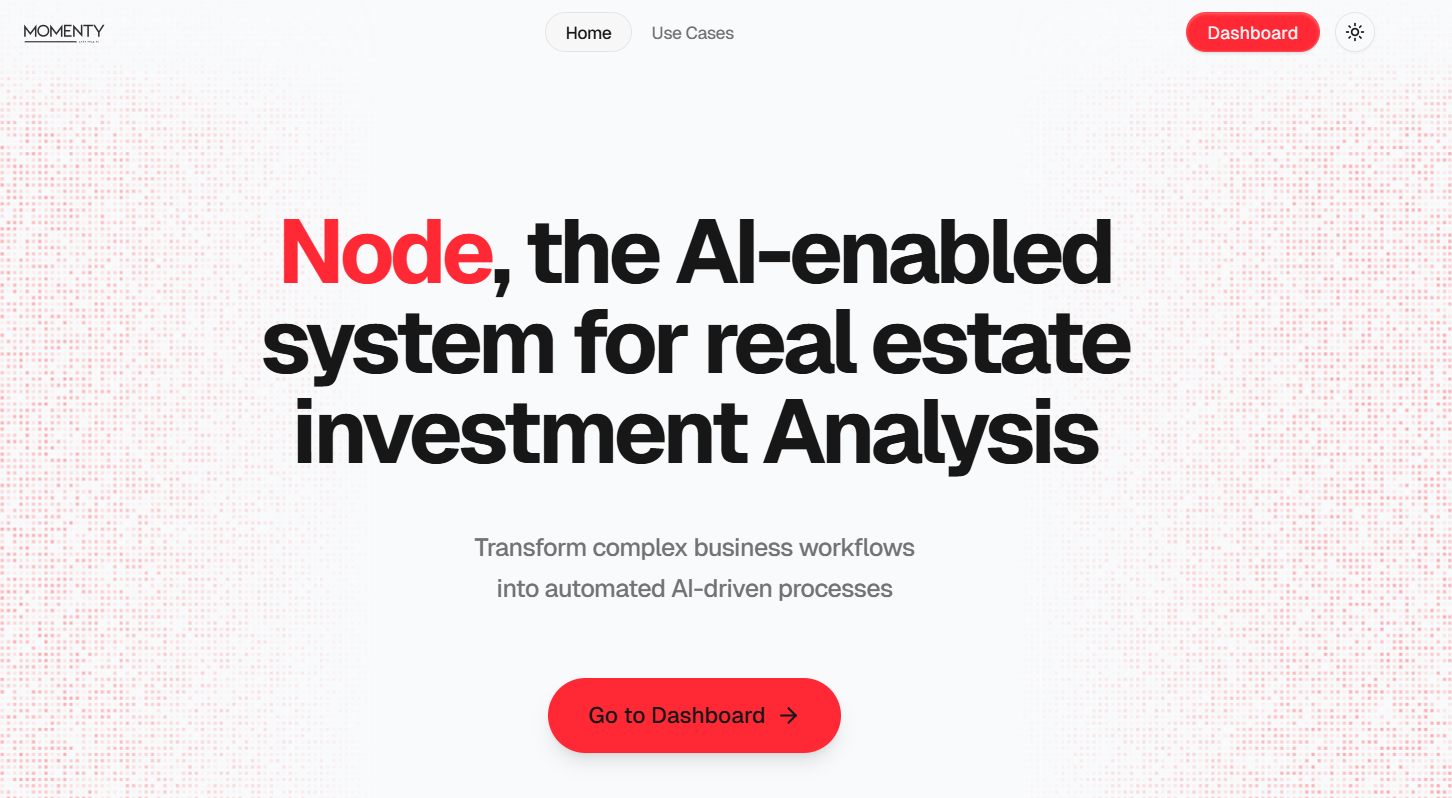
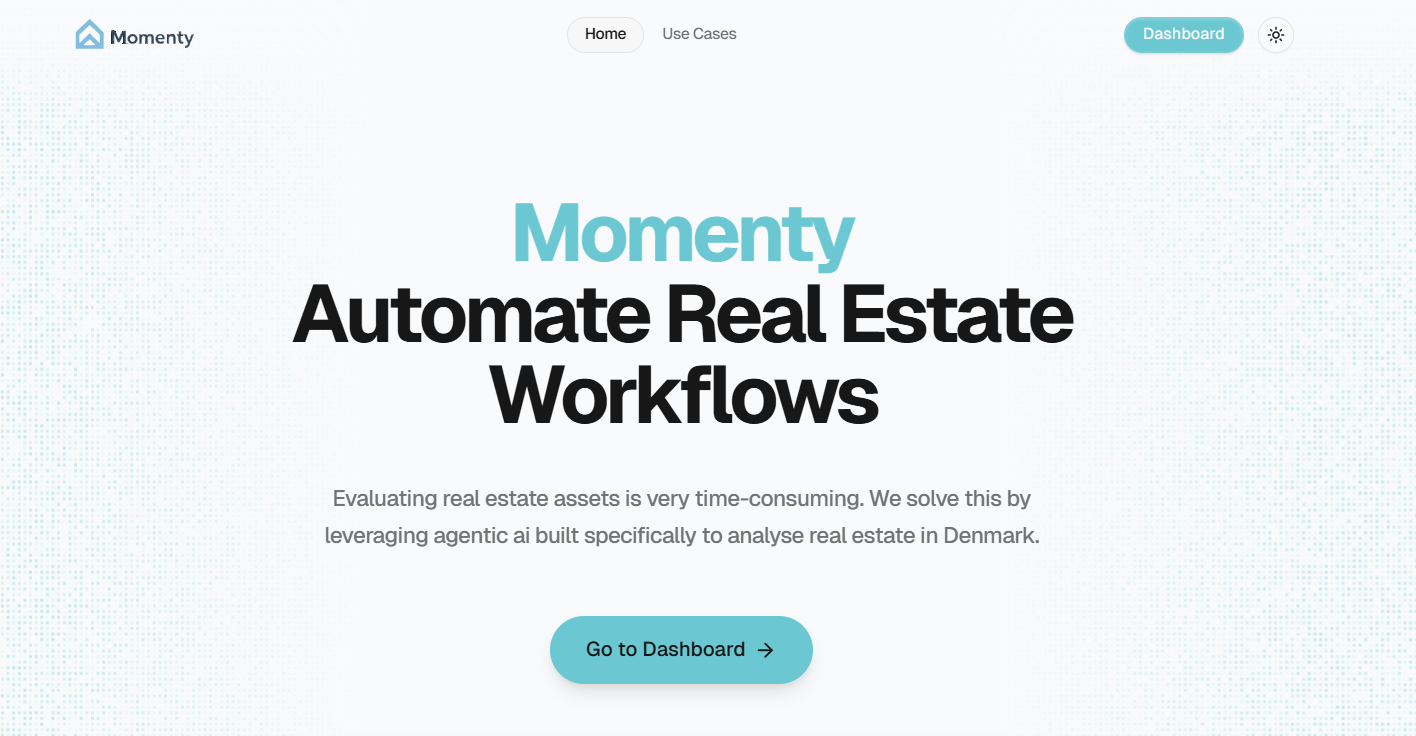
python file uploads, node mini

diff --git a/frontend/src/components/workflows/FileUploadZone.tsx b/frontend/src/components/workflows/FileUploadZone.tsx
@@ -49,6 +49,10 @@ const ALLOWED_TYPES = [
   'application/json',
   'text/tab-separated-values',
   'application/octet-stream',
+  // Programming Languages
+  'text/x-python',
+  'application/x-python-code',
+  'text/x-script.python',
   // Office/Documents
   'application/pdf',
   'application/msword',
@@ -73,7 +77,7 @@ const ALLOWED_TYPES = [
 ];
 
 const ALLOWED_EXTENSIONS = [
-  '.md', '.markdown', '.mdx', '.txt', '.csv', '.tsv', '.html', '.htm', '.css', '.xml', '.json',
+  '.md', '.markdown', '.mdx', '.txt', '.csv', '.tsv', '.html', '.htm', '.css', '.xml', '.json', '.py',
   '.pdf', '.doc', '.docx', '.ppt', '.pptx', '.xls', '.xlsx', '.odt', '.ods', '.odp', '.rtf', '.tex',
   '.jpg', '.jpeg', '.png', '.svg'
 ];
@@ -195,6 +199,9 @@ export function FileUploadZone({
       'text/xml': ['.xml'],
       'application/xml': ['.xml'],
       'application/json': ['.json'],
+      'text/x-python': ['.py'],
+      'application/x-python-code': ['.py'],
+      'text/x-script.python': ['.py'],
       'application/pdf': ['.pdf'],
       'application/msword': ['.doc'],
       'application/vnd.openxmlformats-officedocument.wordprocessingml.document': ['.docx'],
@@ -280,7 +287,7 @@ export function FileUploadZone({
         <Info className="h-4 w-4" />
         <AlertDescription>
           Upload supplementary files to provide additional context for your workflow.
-          Supported: MD/MDX, TXT, HTML, CSS, XML, JSON, CSV/TSV, PDF, DOC/DOCX, PPT/PPTX, XLS/XLSX, ODT/ODS/ODP, RTF, TEX, JPG/JPEG, PNG, SVG (max 50MB each).
+          Supported: MD/MDX, TXT, HTML, CSS, XML, JSON, CSV/TSV, PDF, DOC/DOCX, PPT/PPTX, XLS/XLSX, ODT/ODS/ODP, RTF, TEX, PY, JPG/JPEG, PNG, SVG (max 50MB each).
         </AlertDescription>
       </Alert>
 
@@ -310,7 +317,7 @@ export function FileUploadZone({
                     Drag & drop files here, or click to select
                   </p>
                   <p className="text-sm text-muted-foreground">
-                    MD/MDX, TXT, HTML, CSS, XML, JSON, CSV/TSV, PDF, DOC/DOCX, PPT/PPTX, XLS/XLSX, ODT/ODS/ODP, RTF, TEX, JPG/JPEG, PNG, SVG (max 50MB)
+                    MD/MDX, TXT, HTML, CSS, XML, JSON, CSV/TSV, PDF, DOC/DOCX, PPT/PPTX, XLS/XLSX, ODT/ODS/ODP, RTF, TEX, PY, JPG/JPEG, PNG, SVG (max 50MB)
                   </p>
                 </div>
               )}

diff --git a/frontend/src/components/thread/chat-input/_use-model-selection.ts b/frontend/src/components/thread/chat-input/_use-model-selection.ts
@@ -38,12 +38,12 @@ export const MODELS = {
     lowQuality: false,
     description: 'Claude Sonnet 4.5 - Anthropic\'s latest and most advanced AI assistant'
   },
-  'grok-4-fast': {
+  'node-mini': {
     tier: 'free',
-    priority: 90,
+    priority: 85,
     recommended: false,
     lowQuality: false,
-    description: 'GROK-4 Fast - xAI\'s fast and efficient AI model'
+    description: 'Node Mini - Fast and efficient Claude Haiku model'
   },
 };
 
@@ -156,11 +156,11 @@ export const useModelSelection = () => {
     if (!modelsData?.models || isLoadingModels) {
       models = [
         { 
-          id: 'grok-4-fast', 
-          label: 'GROK-4 Fast', 
+          id: 'node-mini', 
+          label: 'Node Mini', 
           requiresSubscription: false,
-          description: MODELS['grok-4-fast']?.description || MODEL_TIERS.free.baseDescription,
-          priority: MODELS['grok-4-fast']?.priority || 90
+          description: MODELS['node-mini']?.description || MODEL_TIERS.free.baseDescription,
+          priority: MODELS['node-mini']?.priority || 85
         },
         { 
           id: DEFAULT_FREE_MODEL_ID, 
@@ -268,14 +268,15 @@ export const useModelSelection = () => {
           canAccessModel(subscriptionStatus, model.requiresSubscription)
         );
     
-    // For non-admin users, only show recommended models (applies in all environments)
+    // For non-admin users, show recommended models plus Node Mini specifically
     if (!isAdmin) {
       console.log('Filtering models for non-admin user. isAdmin:', isAdmin);
       filteredModels = filteredModels.filter(model => {
         const modelData = MODELS[model.id];
         const isRecommended = modelData?.recommended === true;
-        console.log(`Model ${model.id}: recommended=${isRecommended}`);
-        return isRecommended;
+        const isNodeMini = model.id === 'node-mini'; // Always include Node Mini for non-admin users
+        console.log(`Model ${model.id}: recommended=${isRecommended}, isNodeMini=${isNodeMini}`);
+        return isRecommended || isNodeMini;
       });
     } else {
       console.log('Showing all models for admin user. isAdmin:', isAdmin);

diff --git a/frontend/src/lib/actions/threads.ts b/frontend/src/lib/actions/threads.ts
@@ -36,7 +36,7 @@ export const generateThreadName = async (message: string): Promise<string> => {
           },
         ],
         max_tokens: 20,
-        temperature: 0.7,
+        temperature: 0.2,
       }),
     });
 

diff --git a/backend/services/llm.py b/backend/services/llm.py
@@ -74,7 +74,7 @@ async def handle_error(error: Exception, attempt: int, max_attempts: int) -> Non
 def prepare_params(
     messages: List[Dict[str, Any]],
     model_name: str,
-    temperature: float = 0,
+    temperature: float = 0.2,
     max_tokens: Optional[int] = None,
     response_format: Optional[Any] = None,
     tools: Optional[List[Dict[str, Any]]] = None,
@@ -247,7 +247,7 @@ async def make_llm_api_call(
     messages: List[Dict[str, Any]],
     model_name: str,
     response_format: Optional[Any] = None,
-    temperature: float = 0,
+    temperature: float = 0.2,
     max_tokens: Optional[int] = None,
     tools: Optional[List[Dict[str, Any]]] = None,
     tool_choice: str = "auto",
@@ -354,7 +354,7 @@ async def test_openrouter():
         response = await make_llm_api_call(
             model_name="openrouter/openai/gpt-4o-mini",
             messages=test_messages,
-            temperature=0.7,
+            temperature=0.2,
             max_tokens=100
         )
         print(f"Response: {response.choices[0].message.content}")
@@ -364,7 +364,7 @@ async def test_openrouter():
         response = await make_llm_api_call(
             model_name="openrouter/deepseek/deepseek-r1-distill-llama-70b",
             messages=test_messages,
-            temperature=0.7,
+            temperature=0.2,
             max_tokens=100
         )
         print(f"Response: {response.choices[0].message.content}")
@@ -375,7 +375,7 @@ async def test_openrouter():
         response = await make_llm_api_call(
             model_name="openrouter/mistralai/mixtral-8x7b-instruct",
             messages=test_messages,
-            temperature=0.7,
+            temperature=0.2,
             max_tokens=100
         )
         print(f"Response: {response.choices[0].message.content}")
@@ -397,7 +397,7 @@ async def test_bedrock():
             model_name="bedrock/anthropic.claude-3-7-sonnet-20250219-v1:0",
             model_id="arn:aws:bedrock:us-west-2:935064898258:inference-profile/us.anthropic.claude-3-7-sonnet-20250219-v1:0",
             messages=test_messages,
-            temperature=0.7,
+            temperature=0.2,
             # Claude 3.7 has issues with max_tokens, so omit it
             # max_tokens=100
         )

diff --git a/backend/utils/constants.py b/backend/utils/constants.py
@@ -1,9 +1,9 @@
 MODEL_ACCESS_TIERS = {
     "free": [
         "anthropic/claude-sonnet-4-5-20250929",
+        "anthropic/claude-haiku-4-5-20251001",
         "anthropic/claude-3-7-sonnet-latest",
-        "openai/gpt-4o",
-        "xai/grok-4-fast-non-reasoning"
+        "openai/gpt-4o"
     ],
     "tier_2_20": [
         "openrouter/deepseek/deepseek-chat",
@@ -96,6 +96,7 @@ MODEL_NAME_ALIASES = {
     "sonnet-3.5": "anthropic/claude-3-5-sonnet-latest",
     "haiku-3.5": "anthropic/claude-3-5-haiku-latest",
     "claude-sonnet-4.5": "anthropic/claude-sonnet-4-5-20250929",
+    "node-mini": "anthropic/claude-haiku-4-5-20251001",
     # "gpt-4.1": "openai/gpt-4.1-2025-04-14",  # Commented out in constants.py
     "gpt-4o": "openai/gpt-4o",
     "gpt-4.1": "openai/gpt-4.1",
@@ -104,7 +105,6 @@ MODEL_NAME_ALIASES = {
     # "gpt-4": "openai/gpt-4",  # Commented out in constants.py
     # "gemini-flash-2.5": "openrouter/google/gemini-2.5-flash-preview",  # Commented out in constants.py
     # "grok-3": "xai/grok-3-fast-latest",  # Commented out in constants.py
-    "grok-4-fast": "xai/grok-4-fast-non-reasoning",
     "deepseek": "openrouter/deepseek/deepseek-chat",
     # "deepseek-r1": "openrouter/deepseek/deepseek-r1",
     # "grok-3-mini": "xai/grok-3-mini-fast-beta",  # Commented out in constants.py

diff --git a/backend/agent/api.py b/backend/agent/api.py
@@ -346,7 +346,7 @@ Transform this basic information into a comprehensive, effective system prompt t
             messages=messages,
             model_name="openai/gpt-4o",
             max_tokens=2000,
-            temperature=0.7
+            temperature=0.2
         )
 
         if response and response.get('choices') and response['choices'][0].get('message'):
@@ -936,7 +936,7 @@ async def generate_and_update_project_name(project_id: str, prompt: str):
         messages = [{"role": "system", "content": system_prompt}, {"role": "user", "content": user_message}]
 
         logger.debug(f"Calling LLM ({model_name}) for project {project_id} naming.")
-        response = await make_llm_api_call(messages=messages, model_name=model_name, max_tokens=20, temperature=0.7)
+        response = await make_llm_api_call(messages=messages, model_name=model_name, max_tokens=20, temperature=0.2)
 
         generated_name = None
         if response and response.get('choices') and response['choices'][0].get('message'):

diff --git a/backend/services/workflow_builder_service.py b/backend/services/workflow_builder_service.py
@@ -47,6 +47,10 @@ class WorkflowBuilderService:
             'text/xml',
             'application/xml',
             'application/octet-stream',  # Generic binary/unknown types
+            # Programming Languages
+            'text/x-python',
+            'application/x-python-code',
+            'text/x-script.python',
             # Common mislabels
             'application/vnd.ms-excel',  # some browsers send CSV/XLS as this
             'application/msexcel',       # Alternative Excel MIME
@@ -552,6 +556,7 @@ class WorkflowBuilderService:
                     '.html', '.htm',     # HTML
                     '.css',              # CSS
                     '.xml',              # XML
+                    '.py',               # Python
                     '.pdf',              # PDF
                     '.doc', '.docx',     # Word
                     '.ppt', '.pptx',     # PowerPoint

diff --git a/backend/services/billing.py b/backend/services/billing.py
@@ -935,7 +935,7 @@ async def get_available_models(
             all_models.add(full_name)
             
             # Only include short names that don't match their full names for aliases
-            if short_name != full_name and not short_name.startswith("openai/") and not short_name.startswith("anthropic/") and not short_name.startswith("openrouter/") and not short_name.startswith("xai/"):
+            if short_name != full_name and not short_name.startswith("openai/") and not short_name.startswith("openrouter/") and not short_name.startswith("xai/"):
                 if full_name not in model_aliases:
                     model_aliases[full_name] = short_name
         

diff --git a/backend/agentpress/context_manager.py b/backend/agentpress/context_manager.py
@@ -191,7 +191,7 @@ THE CONVERSATION HISTORY TO SUMMARIZE IS AS FOLLOWS:
             response = await make_llm_api_call(
                 model_name=model,
                 messages=[system_message, {"role": "user", "content": "PLEASE PROVIDE THE SUMMARY NOW."}],
-                temperature=0,
+                temperature=0.2,
                 max_tokens=SUMMARY_TARGET_TOKENS,
                 stream=False
             )

diff --git a/backend/agentpress/thread_manager.py b/backend/agentpress/thread_manager.py
@@ -457,7 +457,7 @@ class ThreadManager:
         stream: bool = True,
         temporary_message: Optional[Dict[str, Any]] = None,
         llm_model: str = "gpt-4o",
-        llm_temperature: float = 0,
+        llm_temperature: float = 0.2,
         llm_max_tokens: Optional[int] = None,
         processor_config: Optional[ProcessorConfig] = None,
         tool_choice: ToolChoice = "auto",

diff --git a/backend/agent/run.py b/backend/agent/run.py
@@ -493,7 +493,7 @@ async def run_agent(
                 system_prompt=system_message,
                 stream=stream,
                 llm_model=model_name,
-                llm_temperature=0,
+                llm_temperature=0.2,
                 llm_max_tokens=max_tokens,
                 tool_choice="auto",
                 max_xml_tool_calls=1,  #0 means no limit
